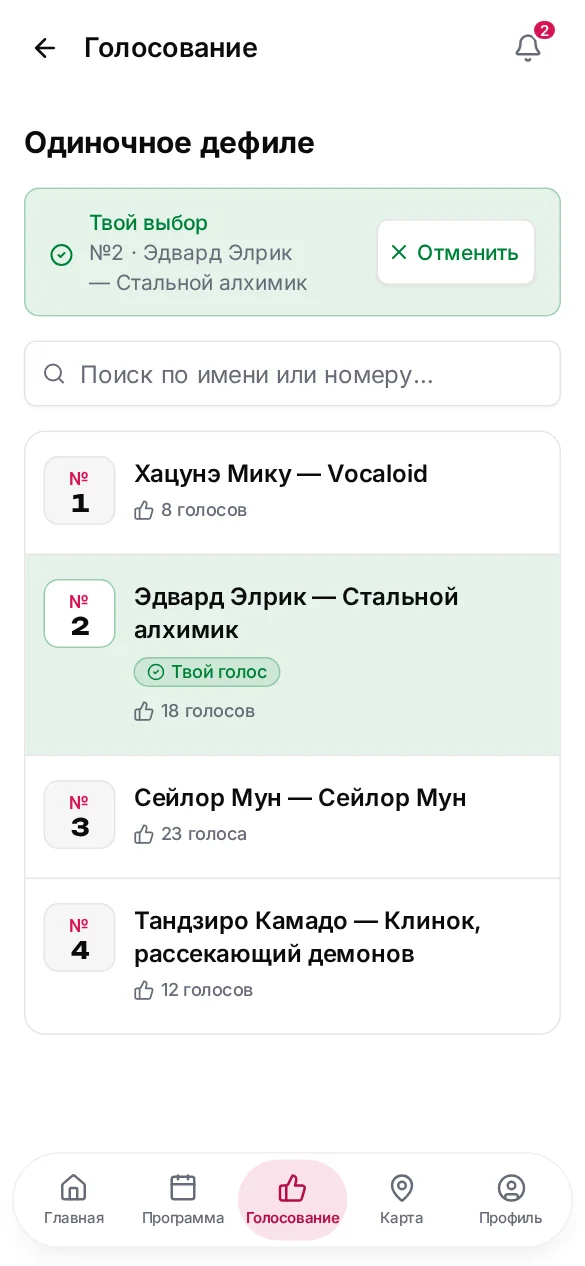
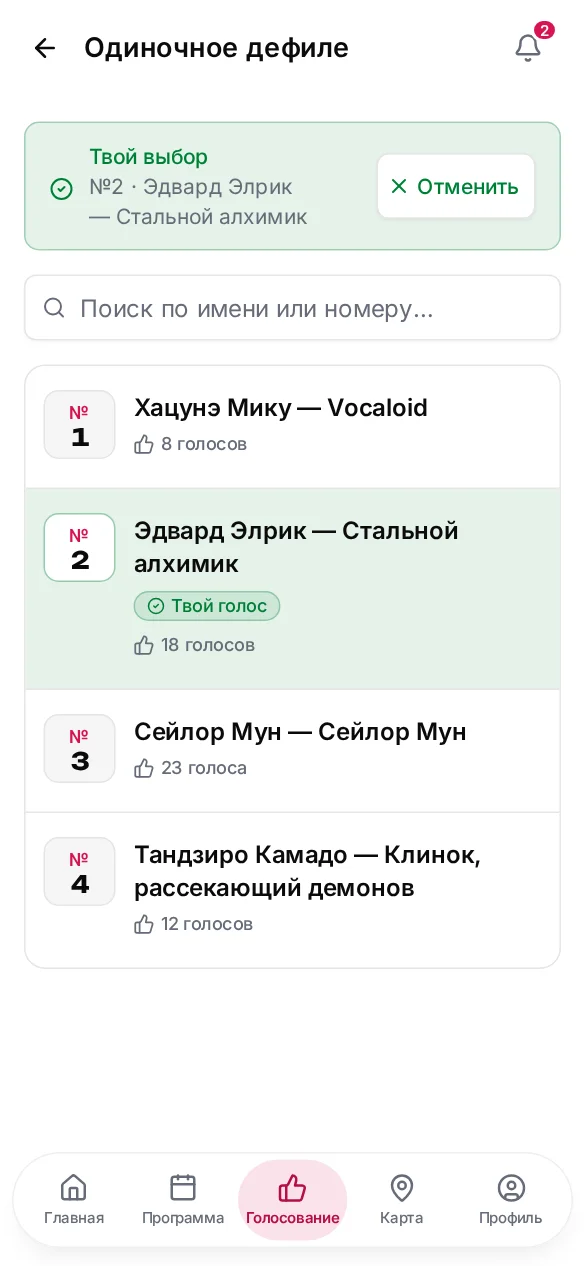
feat(frontend): title the voting nomination page with the nomination name
The navbar showed a generic "Голосование" and the nomination name sat
below it as an in-page h2. The nomination is the screen's name, so its
load now returns it as `title` (the navbar <h1>), and the in-page heading
is gone; the list starts about 50px higher. The offline and unreachable
states, which have no nomination to name, keep "Голосование". The
"Выбери участника" hint and the works link stay in the page intro, which
now renders only when one of them is shown. The trade-off is that a very
long nomination name truncates in the navbar instead of wrapping. README
gallery voting.webp re-captured.

Claude-Session: https://claude.ai/code/session_011qciFYvavtRnTtgy8kEoQB

Changed region(s): [[0.0308, 0.0924, 0.9846, 0.8009], [0.1538, 0.0308, 0.5846, 0.0616]]

diff --git a/frontend/src/routes/(app)/voting/[nominationCode]/+page.svelte b/frontend/src/routes/(app)/voting/[nominationCode]/+page.svelte
@@ -45,6 +45,7 @@
 		participants.find((p: VotingParticipant) => p.user_vote !== null)
 	);
 	let hasVoted = $derived(votedParticipant !== undefined);
+	let showVoteHint = $derived(canVote && !hasVoted);
 
 	async function handleVoted() {
 		await invalidate('app:voting:nomination');
@@ -63,35 +64,32 @@
 		message="Подключись к интернету, чтобы голосовать за участников."
 	/>
 {:else}
-	<SectionIntro>
-		<!-- Title/description on the left, works-preview action on the right.
-		Stacks on narrow screens, sits side by side from sm up. -->
-		<div class="flex flex-col gap-3 sm:flex-row sm:items-start sm:justify-between">
-			<div>
-				<!-- Navbar shows the generic "Голосование"; the nomination name is the page's
-				own heading (h2) so long names stay readable instead of clipping in the navbar. -->
-				<h2 class="text-xl font-bold text-foreground">{nomination?.title}</h2>
-				{#if canVote && !hasVoted}
-					<p class="mt-1 text-sm text-muted-foreground sm:text-base">
+	{#if showVoteHint || nomination?.works_url}
+		<SectionIntro>
+			<!-- Hint on the left, works-preview action on the right. Stacks on narrow
+			screens, sits side by side from sm up. -->
+			<div class="flex flex-col gap-3 sm:flex-row sm:items-start sm:justify-between">
+				{#if showVoteHint}
+					<p class="text-sm text-muted-foreground sm:text-base">
 						Выбери участника, чтобы отдать голос
 					</p>
 				{/if}
+				{#if nomination?.works_url}
+					<!-- External gallery of the nominated works; opens in a new tab. -->
+					<Button
+						href={nomination.works_url}
+						rel="external noopener"
+						target="_blank"
+						size="sm"
+						class="shrink-0 self-start"
+					>
+						<ExternalLink data-icon="inline-start" />
+						Смотреть работы
+					</Button>
+				{/if}
 			</div>
-			{#if nomination?.works_url}
-				<!-- External gallery of the nominated works; opens in a new tab. -->
-				<Button
-					href={nomination.works_url}
-					rel="external noopener"
-					target="_blank"
-					size="sm"
-					class="shrink-0"
-				>
-					<ExternalLink data-icon="inline-start" />
-					Смотреть работы
-				</Button>
-			{/if}
-		</div>
-	</SectionIntro>
+		</SectionIntro>
+	{/if}
 
 	<VotingStatusAlert votingState={votingStatus} class="mb-4" />
 

diff --git a/frontend/src/routes/(app)/voting/[nominationCode]/+page.ts b/frontend/src/routes/(app)/voting/[nominationCode]/+page.ts
@@ -49,8 +49,10 @@ export const load: PageLoad = async ({ params, fetch, depends }) => {
 			throwApiError(apiError, response, 'Номинация не найдена');
 		}
 
+		// The nomination is the screen's name, so it titles the navbar; the generic
+		// 'Голосование' above covers the states with no nomination to name.
 		return {
-			title: 'Голосование',
+			title: data.title,
 			back,
 			nomination: data,
 			offlineUnavailable: false
